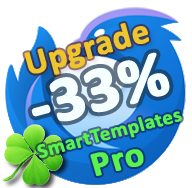
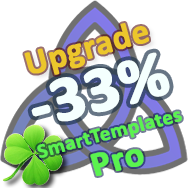
debranding: remove thunderbird likenesses

diff --git a/popup/update.html b/popup/update.html
@@ -42,7 +42,7 @@
         </div>
         
         <div id="specialOfferRenew" class="specialOffer" hidden>
-	        <img id="bargainRenewIcon" class="bargainIcon" src="bargain25new.png" />
+	        <img id="bargainRenewIcon" class="bargainIcon" src="bargain-25-renew.png" />
 	        <p class="specialOfferIntro">__MSG_special-offer-intro__</p>
 	        <p id="specialOfferRenewTxt">__MSG_special-offer-renew__</p>
         </div>              
